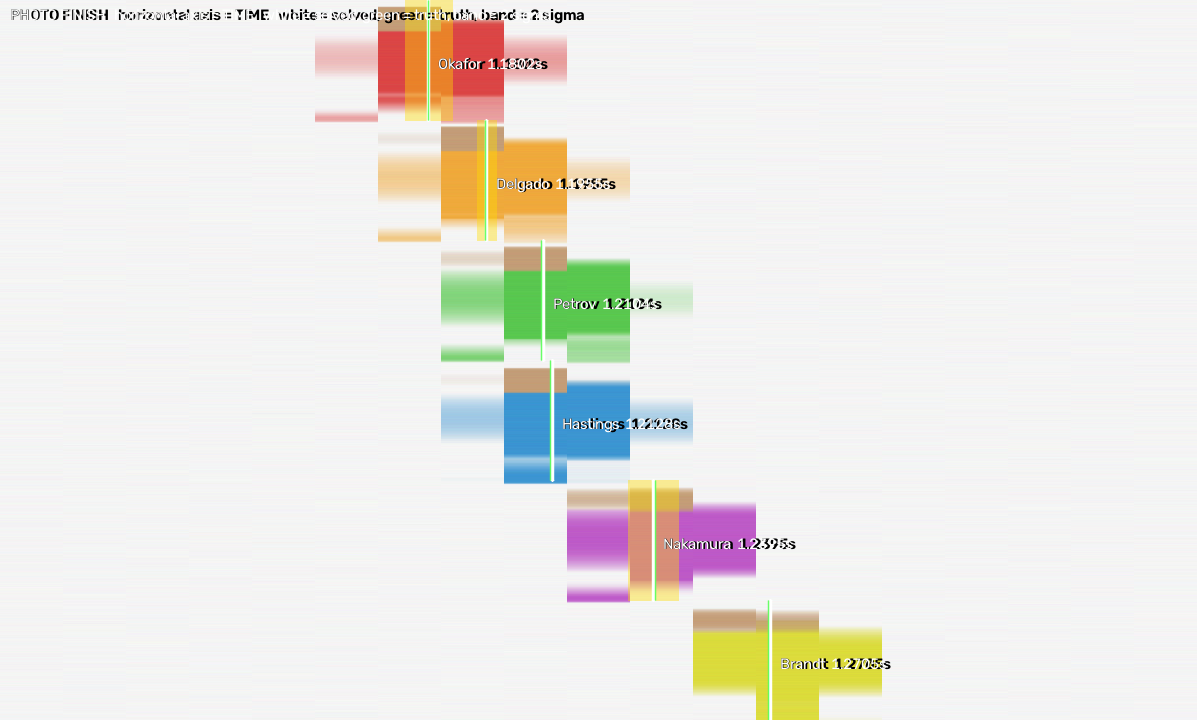
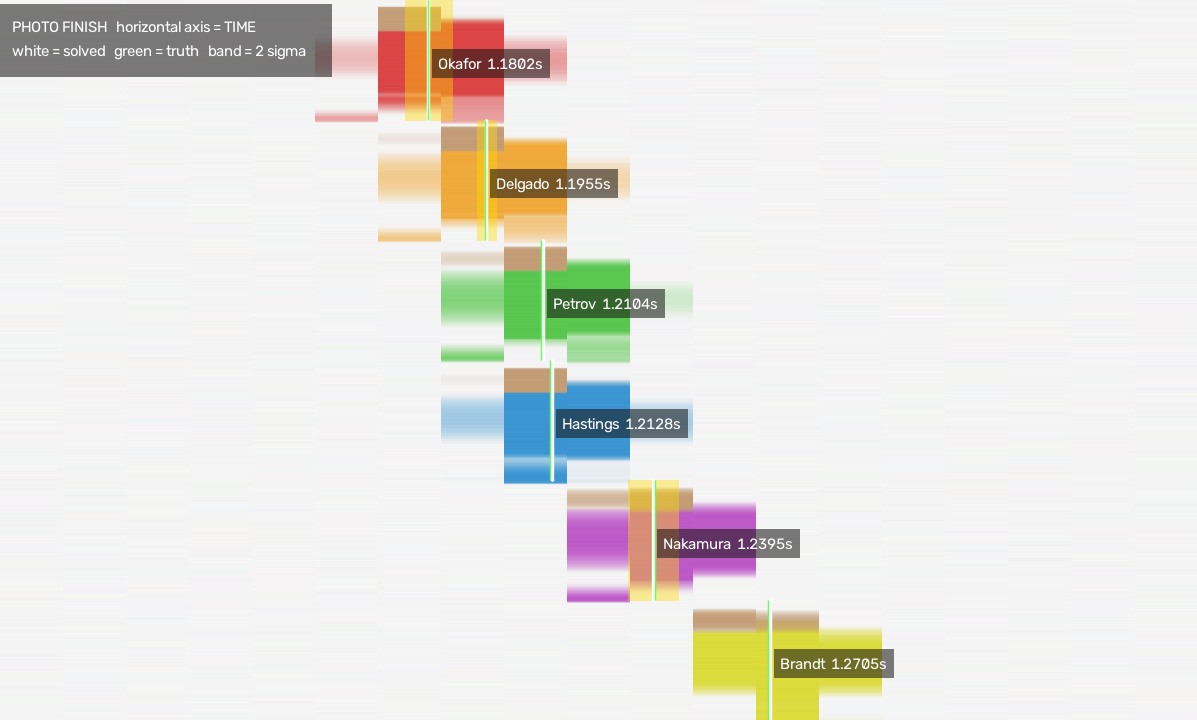
Fix text rendering artifact in overlays
OpenCV widens glyphs as stroke thickness grows, so drawing a thick dark
pass under a thin light pass renders a longer string underneath and its
tail shows past the end of every line. Replaced the outline approach with
a translucent backing panel.

diff --git a/trackside/render.py b/trackside/render.py
@@ -61,16 +61,22 @@ def annotate_strip(
                      (int(to_x(truth[r.lane])), y1), (90, 255, 90), 1, cv2.LINE_AA)
 
         label = f"{r.name}  {r.cross_time.value:.4f}s"
-        (tw, _), _ = cv2.getTextSize(label, _FONT, 0.52, 1)
+        (tw, th), _ = cv2.getTextSize(label, _FONT, 0.52, 1)
         # Flip the label to the left of the line when it would run off the edge.
         lx = int(x) + 10 if x + tw + 16 < img.shape[1] else int(x) - tw - 10
         ly = y0 + int(band * 0.58)
-        cv2.putText(img, label, (lx, ly), _FONT, 0.52, (0, 0, 0), 3, cv2.LINE_AA)
+        box = img.copy()
+        cv2.rectangle(box, (lx - 6, ly - th - 6), (lx + tw + 6, ly + 8),
+                      (18, 18, 20), -1)
+        cv2.addWeighted(box, 0.55, img, 0.45, 0, img)
         cv2.putText(img, label, (lx, ly), _FONT, 0.52, (255, 255, 255), 1, cv2.LINE_AA)
 
-    header = "PHOTO FINISH   horizontal axis = TIME   white = solved, green = truth, band = 2 sigma"
-    cv2.putText(img, header, (10, 20), _FONT, 0.5, (0, 0, 0), 3, cv2.LINE_AA)
-    cv2.putText(img, header, (10, 20), _FONT, 0.5, (255, 255, 255), 1, cv2.LINE_AA)
+    _text_panel(
+        img,
+        ["PHOTO FINISH   horizontal axis = TIME",
+         "white = solved   green = truth   band = 2 sigma"],
+        origin=(12, 16), scale=0.5, line_h=24,
+    )
     cv2.imwrite(str(out_path), img)
     return img
 
@@ -111,12 +117,37 @@ def trajectory_overlay(
         f"recovered g {result.recovered_g.format(4)}",
         f"{result.n_inliers} of {result.n_candidates} detections on the arc",
     ]
-    for i, line in enumerate(lines):
-        cv2.putText(comp, line, (20, 40 + i * 30), _FONT, 0.72, (20, 20, 20), 4, cv2.LINE_AA)
-        cv2.putText(comp, line, (20, 40 + i * 30), _FONT, 0.72, (255, 255, 255), 1, cv2.LINE_AA)
-
+    _text_panel(comp, lines, origin=(20, 22), scale=0.72)
     cv2.imwrite(str(out_path), comp)
     return comp
+
+
+def _text_panel(
+    img: np.ndarray,
+    lines: list[str],
+    origin: tuple[int, int] = (20, 22),
+    scale: float = 0.7,
+    pad: int = 12,
+    line_h: int = 30,
+) -> None:
+    """Draw text over a translucent dark panel.
+
+    Not an outline. OpenCV widens glyphs as stroke thickness grows, so a thick
+    dark pass under a thin light pass renders a *longer* string underneath and
+    its tail shows past the end of every line.
+    """
+    x, y = origin
+    widths = [cv2.getTextSize(s, _FONT, scale, 1)[0][0] for s in lines]
+    w = max(widths) + 2 * pad
+    h = line_h * len(lines) + pad
+
+    panel = img.copy()
+    cv2.rectangle(panel, (x - pad, y - pad), (x + w, y + h), (18, 18, 20), -1)
+    cv2.addWeighted(panel, 0.55, img, 0.45, 0, img)
+
+    for i, line in enumerate(lines):
+        cv2.putText(img, line, (x, y + line_h * (i + 1) - 8), _FONT, scale,
+                    (255, 255, 255), 1, cv2.LINE_AA)
 
 
 def validation_plot(records: list[dict], out_path: Path) -> None:
